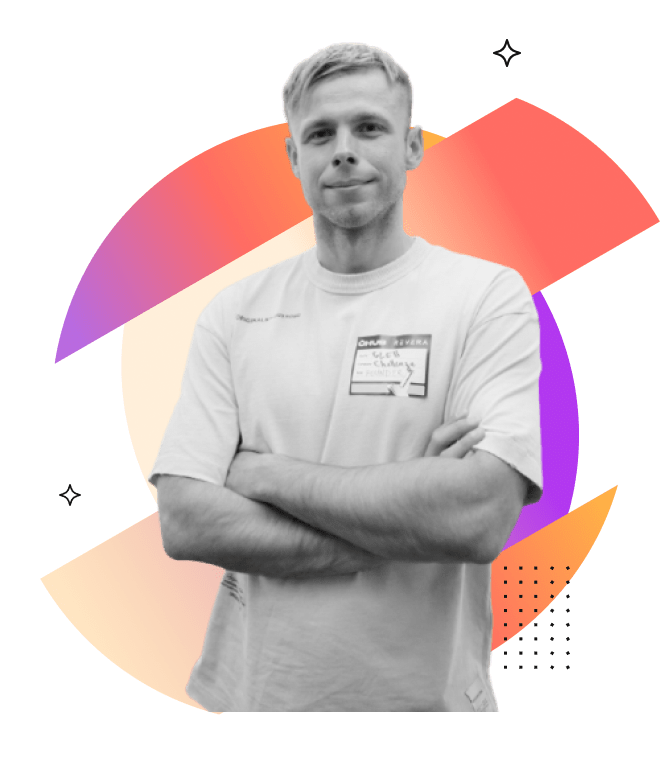
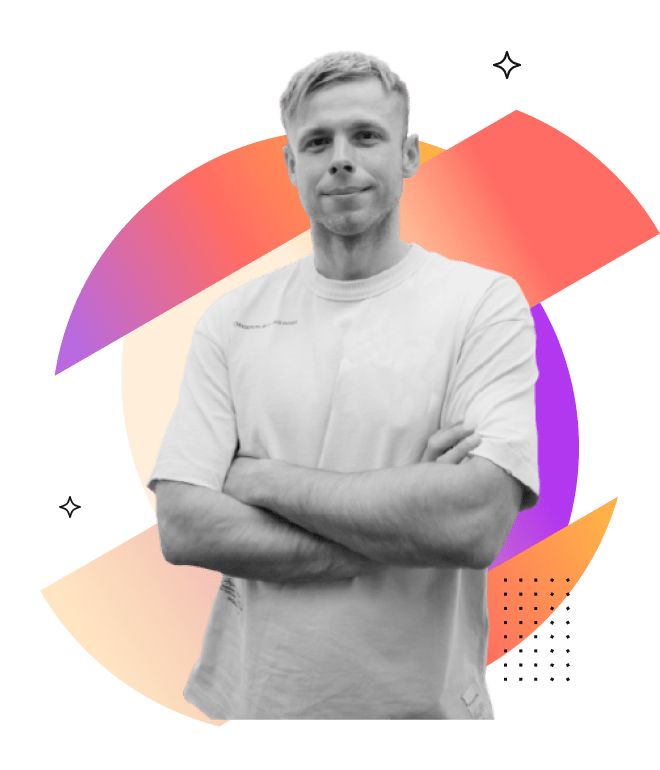
photo update

diff --git a/src/css/home.css b/src/css/home.css
@@ -114,7 +114,7 @@
   } */
 
   .profile-img {
-    width: 660px;
+    width: 630px;
     height: 720px;
     flex-shrink: 0;
   }
